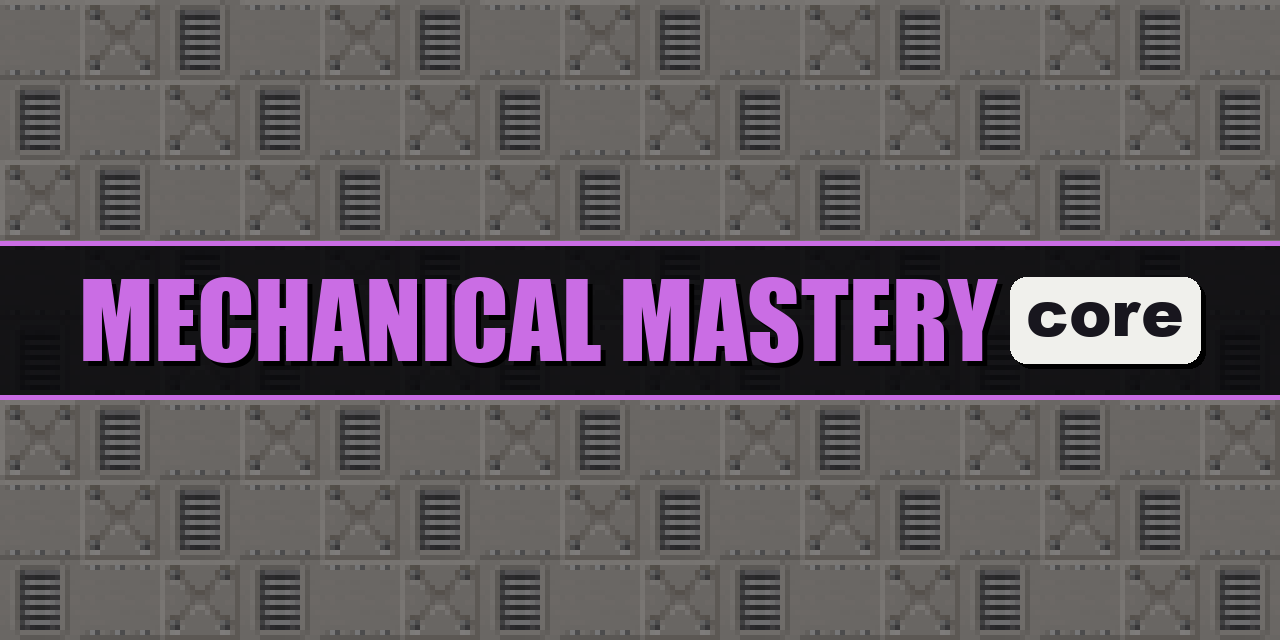
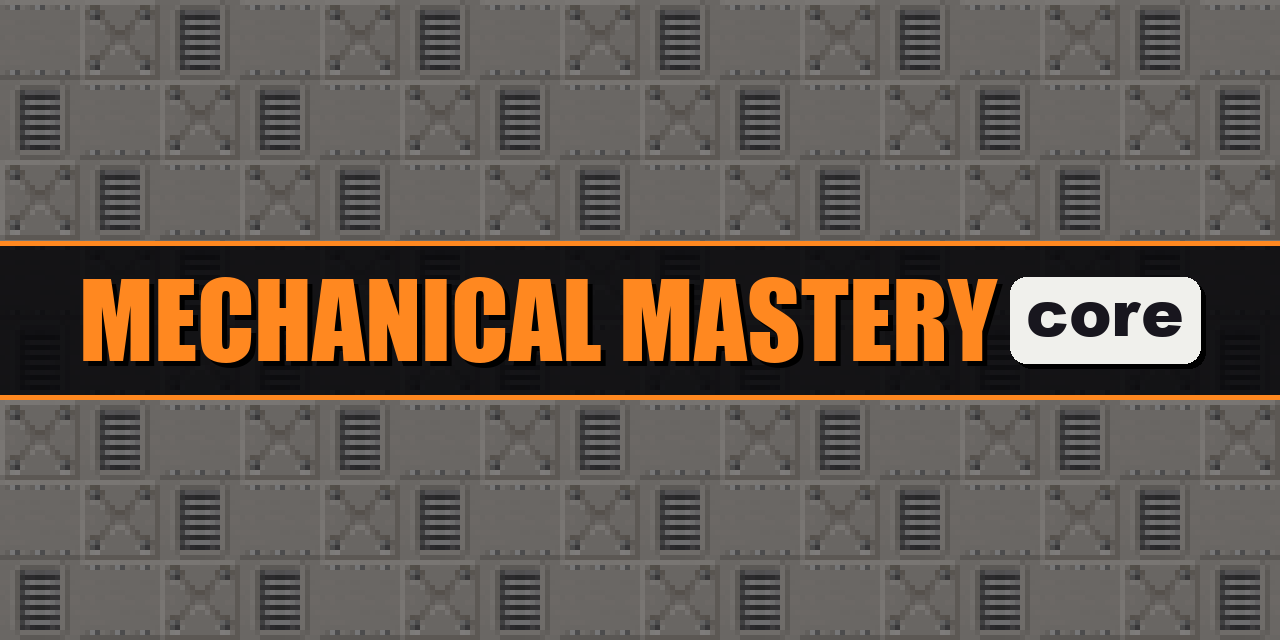
Reborn's covers take an orange accent instead of the Advanced essence's magenta (#274)

Changed region(s): [[0.0625, 0.4375, 0.7812, 0.5625], [0.0, 0.5938, 1.0, 0.625], [0.0, 0.375, 1.0, 0.4062]]

diff --git a/MMR26.1.2/mod/publish/make-cover.py b/MMR26.1.2/mod/publish/make-cover.py
@@ -14,8 +14,8 @@
 #   - a wall of the Recycler's casing, drive and vent textures, tiled nearest-neighbour as Beltworks'
 #     tiles its belts, in a fixed pattern so every run draws the same image, dimmed so the title reads;
 #   - the title band, dark, ruled top and bottom in the accent, holding the suite's title turned
-#     around, as A Touch of Darkness's is: "MECHANICAL MASTERY" in Impact caps, in the Advanced
-#     essence's magenta, then the suite's white pill holding "core". The icon stacks them.
+#     around, as A Touch of Darkness's is: "MECHANICAL MASTERY" in Impact caps, in the accent's
+#     orange, then the suite's white pill holding "core". The icon stacks them.
 #
 # Its art is the mod's own textures only, Malcolm Riley's Recycler textures (NOTICE), nothing of
 # Mojang's. Its fonts are found on the system, with fallbacks; none is committed.
@@ -28,7 +28,7 @@ WALL = ['recycler_casing', 'recycler_drive', 'recycler_vent']
 DIM = 0.45  # how far the wall is blended toward BG
 BG = (14, 13, 16)
 BAND = (8, 8, 11, 225)
-ACCENT = (202, 109, 228)  # the Advanced essence's magenta
+ACCENT = (255, 136, 32)  # orange
 PILL = (240, 240, 236)
 PILL_TEXT = (24, 22, 30)
 TITLE, WORD = 'MECHANICAL MASTERY', 'core'

diff --git a/MMR26.1.2/publish/make-cover.py b/MMR26.1.2/publish/make-cover.py
@@ -16,8 +16,8 @@
 #   - above the title band, the four tier essences in a row, lowest first, scaled up nearest-neighbour,
 #     each glowing in its own colour;
 #   - the band, dark, ruled top and bottom in the accent, holding the suite's title turned around, as
-#     A Touch of Darkness's is: "MECHANICAL MASTERY" in Impact caps, in the Advanced essence's
-#     magenta, then the suite's white pill holding "reborn". The icon stacks them;
+#     A Touch of Darkness's is: "MECHANICAL MASTERY" in Impact caps, in the accent's orange,
+#     then the suite's white pill holding "reborn". The icon stacks them;
 #   - beneath the band, the four Transmuted Essences with Quintessence in their middle.
 #
 # Its art is the companion mod's own textures only (mod/NOTICE), nothing of Mojang's. Its fonts are
@@ -32,7 +32,7 @@ T = 'mod/src/main/resources/assets/mechanicalmasteryreborn/textures/item/'
 SEED = 26
 BG = (6, 6, 10)
 BAND = (4, 4, 7, 235)
-ACCENT = (202, 109, 228)  # the Advanced essence's magenta
+ACCENT = (255, 136, 32)  # orange
 PILL = (240, 240, 236)
 PILL_TEXT = (24, 22, 30)
 # each essence glows in its texture's commonest colour
